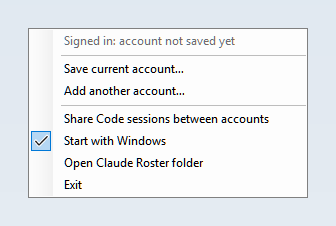
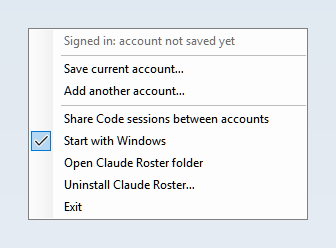
Update the README for the account panel, usage and uninstall
Covers the button on Claude's title bar, the account panel, usage left per
account and where it comes from, the relaunch retry, Claude's new
Claude-Data folder, one-click uninstall, and the CLI's usage output.

The screenshot tool now also captures the panel with sample usage, and the
images are regenerated with it. Single-word account names get a single
initial in the panel's avatars.

Changed region(s): [[0.0893, 0.0929, 0.9226, 0.8982], [0.0893, 0.5265, 0.1488, 0.6814]]

diff --git a/tools/Screenshots/Program.cs b/tools/Screenshots/Program.cs
@@ -89,6 +89,12 @@ internal static class Program
 
         // Everyday use: Work is signed in, Personal is one click away.
         await switcher.SwitchAsync(work.Id);
+        var personal = switcher.ListProfiles().First(profile => profile.Alias == "Personal");
+        // Readings are matched to whichever account was signed in when Claude took them (to the millisecond).
+        sandbox.WriteUsage(
+            (personal.LastUsedAt!.Value.AddMilliseconds(1), "org-personal", 64, 22),
+            (DateTimeOffset.UtcNow.AddMilliseconds(1), "org-work", 18, 41));
+        await CapturePanelAsync(tray, Path.Combine(output, "panel.png"));
         await CaptureMenuAsync(tray.Menu, Path.Combine(output, "menu.png"));
         await CaptureMessageBoxAsync(
             () => Dialogs.Confirm(TrayContext.SwitchConfirmation("Personal", switcher.GetStatus())),
@@ -132,6 +138,18 @@ internal static class Program
 
         menu.Close();
         menu.AutoClose = true;
+        await Task.Delay(300);
+    }
+
+    /// <summary>The account panel the title bar button and a left click on the tray icon open.</summary>
+    private static async Task CapturePanelAsync(TrayContext tray, string path)
+    {
+        var area = Screen.PrimaryScreen!.WorkingArea;
+        var panel = new AccountPanel(tray.BuildPanel);
+        panel.ShowBelow(new Rectangle(area.Left + area.Width / 2 - 160, area.Top + area.Height / 6, 0, 0));
+        await Task.Delay(800);
+        Capture(panel.Bounds, path);
+        panel.Close();
         await Task.Delay(300);
     }
 
@@ -239,6 +257,23 @@ internal sealed class Sandbox : IDisposable
         config["oauth:tokenCache"] = $"sample-{marker}";
         config["bootSidebarPlaceholder"] = new JsonArray();
         ClaudeConfig.Save(DataRoot, config);
+    }
+
+    /// <summary>Plan usage readings in Claude's format: percent of the 5-hour and weekly limits used.</summary>
+    public void WriteUsage(params (DateTimeOffset At, string Org, int SessionUsed, int WeeklyUsed)[] readings)
+    {
+        var samples = new JsonArray();
+        foreach (var reading in readings)
+        {
+            samples.Add(new JsonObject
+            {
+                ["t"] = reading.At.ToUnixTimeMilliseconds(),
+                ["org"] = reading.Org,
+                ["u"] = new JsonObject { ["fh"] = reading.SessionUsed, ["sd"] = reading.WeeklyUsed },
+            });
+        }
+
+        Write(PlanUsage.FileName, new JsonObject { ["version"] = 2, ["samples"] = samples }.ToJsonString());
     }
 
     public void Dispose()

diff --git a/src/ClaudeRoster/AccountPanel.cs b/src/ClaudeRoster/AccountPanel.cs
@@ -501,7 +501,7 @@ internal sealed class AccountPanel : Form
         var initials = words.Length switch
         {
             0 => "?",
-            1 => words[0][..Math.Min(2, words[0].Length)],
+            1 => words[0][..1],
             _ => $"{words[0][0]}{words[^1][0]}",
         };
         return initials.ToUpperInvariant();

diff --git a/README.md b/README.md
@@ -5,8 +5,8 @@
 <h1 align="center">Claude Roster</h1>
 
 <p align="center">
-  <b>Switch the Claude desktop app between your accounts from the Windows system tray.</b><br>
-  Save your work and personal accounts once, then switch with a click instead of logging out and back in.
+  <b>Switch the Claude desktop app between your accounts, right from Claude's title bar.</b><br>
+  Save your work and personal accounts once, then switch with a click instead of logging out and back in, and see how much of each plan's usage is left.
 </p>
 
 <p align="center">
@@ -18,9 +18,9 @@
 </p>
 
 <p align="center">
-  <img src="docs/images/menu.png" alt="The Claude Roster tray menu: signed in as Work, with Personal one click away">
+  <img src="docs/images/panel.png" alt="The Claude Roster account panel: signed in as Work, with Personal one click away and bars showing session and weekly usage left for each">
   <br>
-  <sub>The tray menu. The ✓ marks the account Claude is signed in to; click another one to switch.</sub>
+  <sub>The account panel. The ✓ marks the account Claude is signed in to; click another one to switch. The bars show how much of each plan limit is left.</sub>
 </p>
 
 > [!NOTE]
@@ -28,14 +28,16 @@
 
 ## Features
 
-- **Switch from inside Claude.** A small account button sits at the top left of Claude's window, next to its back and forward arrows, and follows the window when you move it. Click it for the same menu as the tray icon. Turn it off with **Show account button in Claude**.
+- **Switch from inside Claude.** An account button sits at the top left of Claude's window, next to its back and forward arrows, and follows the window when you move it. It shows who's signed in and how much of the session limit is left. Click it to open the account panel.
 - **One-click switching.** Claude closes, swaps to the other account's sign-in, and reopens. It takes a few seconds.
+- **See usage left for every account.** The panel shows the session (5-hour) and weekly limits left for each saved account, from the readings Claude itself records.
 - **Saved sign-ins stay fresh.** Claude refreshes its tokens while you work, so every switch first copies the account you're leaving.
 - **Hard to lose an account.** It backs up before every switch and rolls back automatically if anything fails. It refuses to switch away from an account you haven't saved, or from a sign-in it can't read.
 - **Your setup comes with you.** Skills, plugins you installed, hooks, settings and memory live in `~\.claude`, so every account uses the same ones.
 - **Optionally share Claude Code sessions.** By default each account sees its own sessions in the Code tab. Turn on sharing and every account lists them all.
 - **Local only.** No network calls and no telemetry. Saved sign-ins stay on your PC, readable only by your Windows user.
 - **Scriptable.** A `claude-roster` command line covers everything the tray menu does.
+- **Clean uninstall.** One menu item removes Claude Roster, its saved accounts and its startup entry, and leaves Claude signed in.
 
 ## Requirements
 
@@ -58,18 +60,24 @@ Get-FileHash .\ClaudeRoster.exe -Algorithm SHA256
 
 The icon appears in the system tray next to the clock. On Windows 11 it may be hidden under the **^** arrow. To keep it on the taskbar, open **Settings → Personalization → Taskbar → Other system tray icons** and turn **ClaudeRoster** on.
 
-**You only need to start it once.** From then on it starts with Windows, waits out of sight, and its icon appears whenever Claude is open. To change that, use **Start with Windows** in its menu.
+**You only need to start it once.** From then on it starts with Windows, waits out of sight, and its icon and the account button in Claude appear whenever Claude is open. To change that, use **Start with Windows** in its menu.
 
 > [!IMPORTANT]
 > Start Claude Roster from File Explorer or the Start menu, **not from a terminal inside a Claude Code session**. Switching closes Claude, which would also stop anything started from inside it. Claude Roster detects this and refuses to switch.
 
 ## How to use
 
-Left- or right-click the tray icon to open the menu.
+There are three ways in, all with the same choices:
+
+- **The account button** at the top left of Claude's window opens the account panel.
+- **Left-click the tray icon** for the same panel.
+- **Right-click the tray icon** for a classic menu, shown in the pictures below.
+
+The panel follows your Windows light or dark app theme.
 
 ### 1. Save the account you're signed in to
 
-The first time, the menu shows that Claude's account isn't saved yet. Choose **Save current account…** and give it a name.
+The first time, Claude Roster shows that Claude's account isn't saved yet. Choose **Save current account…** and give it a name.
 
 <table>
   <tr>
@@ -91,13 +99,22 @@ Choose **Add another account…**. Claude closes and reopens on its sign-in scre
 
 ### 3. Switch
 
-Click an account in the menu and confirm. Claude closes and reopens signed in as that account. The confirmation tells you if any Claude Code sessions are running, because they stop when Claude closes.
+Click an account and confirm. Claude closes and reopens signed in as that account. The confirmation tells you if any Claude Code sessions are running, because they stop when Claude closes.
 
 <p><img src="docs/images/confirm-switch.png" alt="Confirmation: Switch Claude to Personal? Claude will close and reopen. 1 running Claude Code session will stop."></p>
 
+### See how much usage is left
+
+Each account in the panel shows two bars: what's left of the **session** (5-hour) limit and of the **weekly** limit. They turn amber below 25% and red below 10%. The account button in Claude shows the session figure, and hovering it shows both.
+
+- The numbers come from `plan-usage-history.json`, where Claude records your plan usage. Claude Roster reads that file and makes no network calls.
+- Claude records readings per organization, not per account, so each account gets the readings taken while it was the one signed in.
+- An account you're not signed in to shows its last reading and how old it is. Once 5 hours (session) or 7 days (weekly) have passed since then, that limit has reset, so it shows as fully available.
+- Some plans have no limits for Claude to report. Those accounts show **No usage limits reported**.
+
 ### Share Claude Code sessions between accounts (optional)
 
-Claude keeps a separate Code-tab session list for each account. Turn on **Share Code sessions between accounts** in the menu, and each switch makes every account's list the same:
+Claude keeps a separate Code-tab session list for each account. Turn on **Share Code sessions** in the panel or menu, and each switch makes every account's list the same:
 
 - Sessions started in either account show up in both, and you can continue any of them from either.
 - The most recently changed copy of a session wins, so renames and archiving carry over.
@@ -111,7 +128,7 @@ Only the session list is shared. The conversations themselves already live in `~
 
 ### Rename or remove
 
-**Manage accounts** renames or removes saved accounts. Removing an account only deletes its saved sign-in on this PC; the Claude account itself isn't affected. You can't remove the account that's signed in right now.
+In the panel, hover an account and click **⋯**. In the classic menu, use **Manage accounts**. Removing an account only deletes its saved sign-in on this PC; the Claude account itself isn't affected. You can't remove the account that's signed in right now.
 
 <p><img src="docs/images/manage.png" alt="Manage accounts submenu with Rename and Remove"></p>
 
@@ -121,6 +138,7 @@ Only the session list is shared. The conversations themselves already live in `~
 > **Don't use Claude's own Log out for a saved account.** Logging out ends that session on Anthropic's side, so the saved copy stops working too. To add or change accounts, use **Add another account…** instead.
 
 - **Running Claude Code sessions stop when you switch**, because Claude closes. They're still there when you switch back.
+- **The account button stays with Claude.** It sits just above Claude's window, so other apps cover it like they cover Claude. It hides while Claude is minimized, closed to the tray or on another virtual desktop. Turn it off with **Show account button in Claude**.
 - **Start with Windows** is turned on the first time Claude Roster runs. It adds an entry under `HKCU\Software\Microsoft\Windows\CurrentVersion\Run`. When started that way, Claude Roster stays hidden until Claude opens, and hides again after Claude quits (never in the middle of a switch). Turn it off in the menu and it stays off. Starting `ClaudeRoster.exe` yourself always shows the icon.
 - **The terminal `claude` CLI isn't covered.** It keeps its own login in `~\.claude`. To use a second account there, give it a separate config folder: `$env:CLAUDE_CONFIG_DIR = "$HOME\.claude-personal"; claude`.
 - **Work accounts follow work rules.** If one of your accounts belongs to an employer, check its policy on personal AI accounts on work machines. Each account stays under its own plan, limits and terms.
@@ -128,6 +146,8 @@ Only the session list is shared. The conversations themselves already live in `~
 ## How it works
 
 The Claude desktop app is an Electron app. Its sign-in lives in a handful of files in its data folder. Claude Roster copies exactly those in and out, and leaves everything else alone.
+
+Newer versions of Claude keep that folder in `%LOCALAPPDATA%\Claude-Data\<install id>`. Older ones used `%APPDATA%\Claude`, or the Store package's `LocalCache`. When Claude moves its data, it leaves a `.user-data-left.<install id>` marker in the old folder. Claude Roster follows that marker and never uses a folder Claude has left. `claude-roster status` shows which folder is in use.
 
 <details>
 <summary><b>What gets saved and swapped</b></summary>
@@ -157,7 +177,7 @@ Run `claude-roster plan` to see this list with sizes for your own install. It ch
 3. Back up the live sign-in to `backups\`. The last 5 backups are kept.
 4. Copy the live sign-in into the profile it belongs to, so its saved copy has the latest tokens.
 5. Put the target account's sign-in in place. If this fails, the backup is restored.
-6. Reopen Claude.
+6. Reopen Claude and wait for its window. If Claude quits before showing one, Claude Roster launches it once more, then tells you if it still didn't start.
 
 Accounts are recognised by Claude's `lastKnownAccountUuid`. If Claude holds tokens but that id can't be read (for example, after an update changes the format), Claude Roster refuses to switch rather than guess.
 
@@ -179,7 +199,17 @@ Everything is stored under `%APPDATA%\ClaudeRoster`. The folder is restricted to
 
 Claude Roster makes no network requests and sends nothing anywhere.
 
-**To uninstall:** open Claude so the icon shows, turn off **Start with Windows**, choose **Exit** from the menu, then delete `ClaudeRoster.exe`, `%APPDATA%\ClaudeRoster` and the registry key `HKCU\Software\ClaudeRoster`.
+### Uninstall
+
+Choose **Uninstall Claude Roster…** in the panel or the classic menu, and confirm. It:
+
+1. Deletes `%APPDATA%\ClaudeRoster`: every saved sign-in and backup. If that fails, it stops and removes nothing else, so you can try again.
+2. Turns off Start with Windows and deletes `HKCU\Software\ClaudeRoster`.
+3. Quits, then deletes `ClaudeRoster.exe`, `claude-roster.exe` if it's in the same folder, and that folder if nothing else is left in it.
+
+Claude's own data isn't touched. Claude stays signed in to its current account, and your Claude Code sessions stay. To use your other accounts again, sign in to them in Claude.
+
+To uninstall by hand instead: turn off **Start with Windows**, choose **Exit**, then delete `ClaudeRoster.exe`, `%APPDATA%\ClaudeRoster` and the registry key `HKCU\Software\ClaudeRoster`.
 
 ## Command line
 
@@ -188,7 +218,7 @@ Claude Roster makes no network requests and sends nothing anywhere.
 | Command | What it does |
 | --- | --- |
 | `claude-roster status` | what Claude is signed in to right now |
-| `claude-roster list` | saved accounts (`*` = signed in) |
+| `claude-roster list` | saved accounts (`*` = signed in) and their usage left |
 | `claude-roster plan` | dry run: what a switch copies |
 | `claude-roster save <name>` | save the account Claude is signed in to |
 | `claude-roster switch <name>` | close Claude, swap accounts, reopen |
@@ -201,12 +231,19 @@ Claude Roster makes no network requests and sends nothing anywhere.
 
 ```text
 > claude-roster status
-Claude data     C:\Users\you\AppData\Local\Packages\AnthropicPBC.Claude_fnn82j28hfe8t\LocalCache\Roaming\Claude
+Claude data     C:\Users\you\AppData\Local\Claude-Data\anthropicpbc.claude_fnn82j28hfe8t
 Store package   AnthropicPBC.Claude_fnn82j28hfe8t
 Claude running  yes, 1 Claude Code session(s) open
 Signed in       Work (11111111…)
 Saved accounts  2
+Share sessions  off
 Roster data     C:\Users\you\AppData\Roaming\ClaudeRoster
+
+> claude-roster list
+  Personal                 22222222…
+                           Session 100% left · Week 78% left (2 days ago)
+* Work                     11111111…
+                           Session 82% left · Week 59% left (4 min ago)
 ```
 
 ## Build from source
@@ -233,8 +270,8 @@ Both programs end up in `claude-roster\publish`.
 
 | Project | What it is |
 | --- | --- |
-| `src/ClaudeRoster.Core` | finding Claude, snapshots, process control, the switch sequence |
-| `src/ClaudeRoster` | the tray app (WinForms) |
+| `src/ClaudeRoster.Core` | finding Claude, snapshots, process control, the switch sequence, plan usage |
+| `src/ClaudeRoster` | the tray app (WinForms): tray icon, account panel, and the button on Claude's title bar |
 | `src/ClaudeRoster.Cli` | `claude-roster.exe` |
 | `tests/ClaudeRoster.Tests` | xUnit tests against fake Claude data folders; they never touch the real one |
 | `tools/Screenshots` | regenerates the images in `docs/images` with sample accounts |
@@ -245,6 +282,9 @@ The tests and the screenshot tool run on throwaway data. For manual testing, `CL
 
 - Claude's sign-in storage isn't a documented interface, so a Claude update can change it. When that happens, expect Claude Roster to refuse to switch rather than corrupt anything; the storage list in `SessionSnapshotter` and `ClaudeConfig` then needs updating.
 - One account is active at a time. It doesn't run two Claude windows side by side.
+- The account button is placed for Claude's current title bar layout, beside the back and forward arrows. If a Claude update moves those, the button may need repositioning (the offsets are at the top of `TitleBarButton.cs`).
+- Usage is only as fresh as Claude's last reading. The file format isn't documented either; if it changes, accounts simply show no usage.
+- The panel and button follow the Windows app theme. Claude's own appearance setting can't be read from outside.
 - The Microsoft Store install is tested. The classic installer (`%LOCALAPPDATA%\AnthropicClaude`) is supported by path rules but hasn't been tested.
 
 ## Credits
